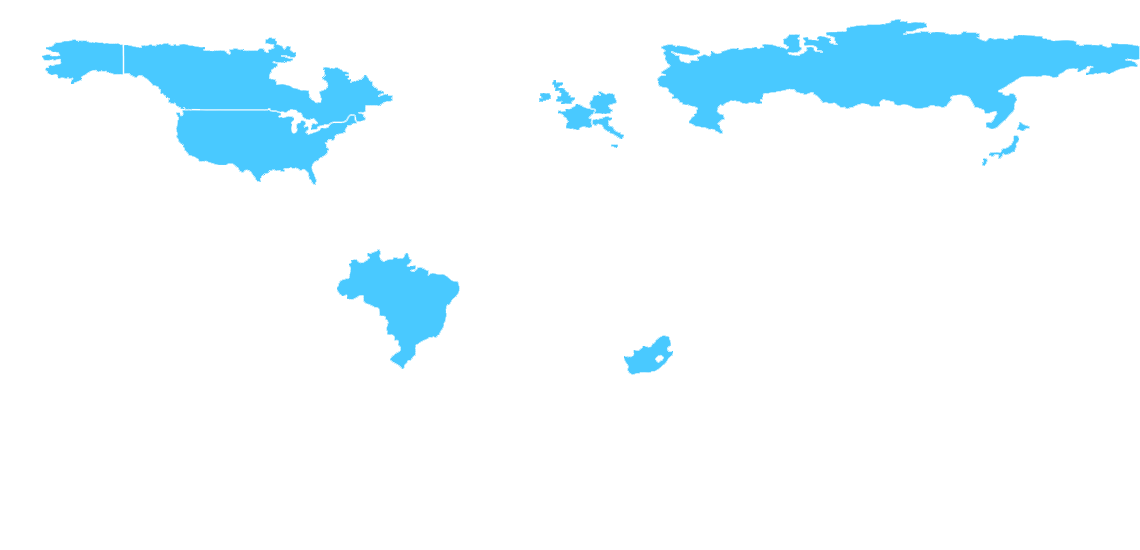
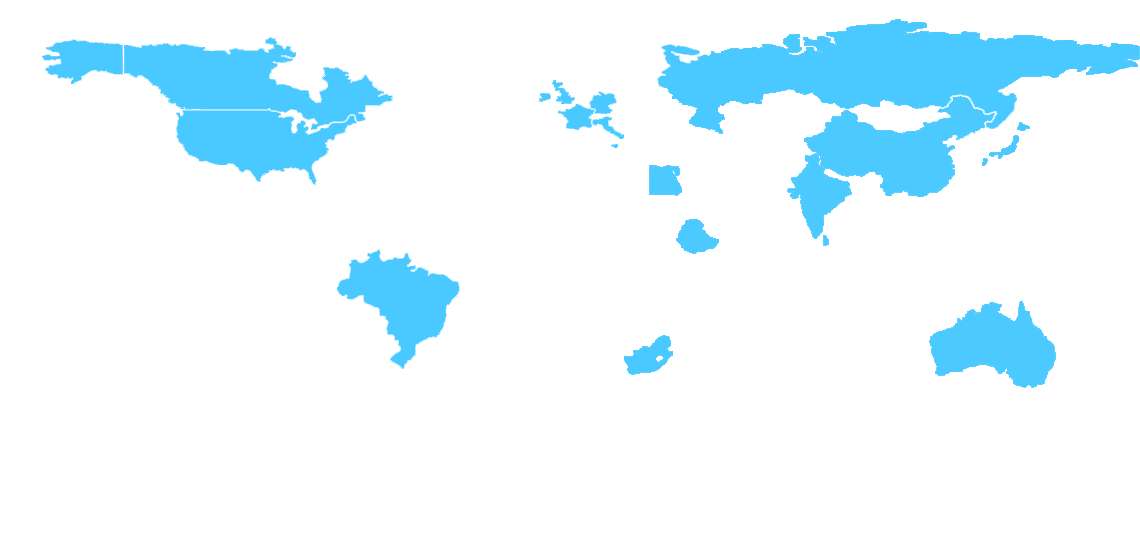
Add files via upload

diff --git a/project/game.js b/project/game.js
@@ -42,6 +42,16 @@ var astroList;
 var astronaut;
 var astronautChosen;
 //flags
+var australiaGreen
+var indiaGreen
+var chinaGreen
+var ethiopiaGreen
+var egyptGreen
+var australiaFlag
+var indiaFlag
+var chinaFlag
+var ethiopiaFlag
+var egyptFlag
 var americaFlag;
 var brazilFlag;
 var canadaFlag;
@@ -57,6 +67,15 @@ var flagChosen;
 var flag;
 var flagSprite;
 var country;
+var australiaBlock1;
+var indiaBlock1;
+var indiBlock2;
+var chinaBlock1;
+var chinaBlock2;
+var chinaBlock3;
+var chinaBlock4;
+var ethiopiaBlock1;
+var egyptBlock1;
 var russiaBlock1;
 var japanBlock1;
 var southAfricaBlock1;
@@ -70,6 +89,11 @@ var brazilBlock2;
 var italyBlock1;
 var germanyBlock1;
 //Highlighted versions for hovering over + tags
+var australiaHighlighted
+var indiaHighlighted
+var chinaHighlighted
+var ethiopiaHighlighted
+var egyptHighlighted
 var brazilHighlighted
 var canadaHighlighted
 var franceHighlighted
@@ -119,7 +143,6 @@ var incorrectSound
 var menuMusic
 var gameMusic
 var tutMusic
-masterVolume(0.5)
 var sfxPlayed = false
 var bgmusicPlayed = false
 var menuMusicPlayed = false
@@ -137,6 +160,11 @@ function preload() {
   worldMap = loadImage('assets/worldMap.jpg');
   speechBubble = loadImage('assets/speechBubble.png');
   rocket = loadImage('assets/rocket.png');
+  australiaFlag = loadImage('assets/flags/australiaFlag.png')
+  indiaFlag = loadImage('assets/flags/indiaFlag.png')
+  chinaFlag = loadImage('assets/flags/chinaFlag.png')
+  ethiopiaFlag = loadImage('assets/flags/ethiopiaFlag.png')
+  egyptFlag = loadImage('assets/flags/egyptFlag.png')
   americaFlag = loadImage('assets/flags/americaFlag.png');
   brazilFlag = loadImage('assets/flags/brazilFlag.png');
   canadaFlag = loadImage('assets/flags/canadaFlag.png');
@@ -146,6 +174,11 @@ function preload() {
   italyFlag = loadImage('assets/flags/italyFlag.png');
   japanFlag = loadImage('assets/flags/japanFlag.png');
   russiaFlag = loadImage('assets/flags/russiaFlag.png');
+  australiaHighlighted = loadImage('assets/countries/australia.png');
+  indiaHighlighted = loadImage('assets/countries/india.png');
+  chinaHighlighted = loadImage('assets/countries/china.png');
+  ethiopiaHighlighted = loadImage('assets/countries/ethiopia.png');
+  egyptHighlighted = loadImage('assets/countries/egypt.png');
   southAfricaFlag = loadImage('assets/flags/southAfricaFlag.png');
   americaHighlighted = loadImage('assets/countries/usa.png');
   brazilHighlighted = loadImage('assets/countries/brazil.png');
@@ -154,7 +187,7 @@ function preload() {
   germanyHighlighted = loadImage('assets/countries/germany.png');
   italyHighlighted = loadImage('assets/countries/italy.png');
   japanHighlighted = loadImage('assets/countries/japan.png');
-  russiaHighlighted = loadImage('assets/countries/russia.png')
+  russiaHighlighted = loadImage('assets/countries/russia.png');
   southAfricaHighlighted = loadImage('assets/countries/s._africa.png');
   britainHighlighted = loadImage('assets/countries/uk.png');
   greenMap = loadImage('assets/green.png');
@@ -166,18 +199,23 @@ function preload() {
   japanTag = loadImage('assets/JapanTag.PNG');
   southAfricaTag = loadImage('assets/SouthAfricaTag.PNG');
   britainTag = loadImage('assets/UnitedKingdomTag.PNG');
-  americaGreen = loadImage('assets/countries/green_usa.png')
-  brazilGreen = loadImage('assets/countries/green_brazil.png')
-  canadaGreen = loadImage('assets/countries/green_canada.png')
-  franceGreen = loadImage('assets/countries/green_france_.png')
-  germanyGreen = loadImage('assets/countries/green_germany.png')
-  italyGreen = loadImage('assets/countries/green_italy.png')
-  japanGreen = loadImage('assets/countries/green_japan.png')
-  russiaGreen = loadImage('assets/countries/green_russia.png')
-  southAfricaGreen = loadImage('assets/countries/green_south_africa.png')
-  britainGreen = loadImage('assets/countries/green_uk.png')
-  greyMap = loadImage('assets/grey.png')
-  tutorialScreen = loadImage('assets/tutorialScreen.PNG')
+  americaGreen = loadImage('assets/countries/green_usa.png');
+  brazilGreen = loadImage('assets/countries/green_brazil.png');
+  canadaGreen = loadImage('assets/countries/green_canada.png');
+  franceGreen = loadImage('assets/countries/green_france_.png');
+  germanyGreen = loadImage('assets/countries/green_germany.png');
+  italyGreen = loadImage('assets/countries/green_italy.png');
+  japanGreen = loadImage('assets/countries/green_japan.png');
+  russiaGreen = loadImage('assets/countries/green_russia.png');
+  southAfricaGreen = loadImage('assets/countries/green_south_africa.png');
+  britainGreen = loadImage('assets/countries/green_uk.png');
+  australiaGreen = loadImage('assets/countries/green_australia.png')
+  indiaGreen = loadImage('assets/countries/green_india.png')
+  chinaGreen = loadImage('assets/countries/green_china.png')
+  ethiopiaGreen = loadImage('assets/countries/green_ethiopia.png')
+  egyptGreen = loadImage('assets/countries/green_egypt.png')
+  greyMap = loadImage('assets/grey.png');
+  tutorialScreen = loadImage('assets/tutorialScreen.PNG');
   //images stop here
   correctSound = loadSound("assets/Music and Sounds/correctSound.mp3")
   incorrectSound = loadSound("assets/Music and Sounds/incorrectSound.wav")
@@ -243,6 +281,30 @@ function setup() {
   germanyBlock1 = createSprite(605,103,20,20);
   germanyBlock1.visible = false;
 
+  ethiopiaBlock1 = createSprite(700,240,40,40);
+  ethiopiaBlock1.visible = false;
+
+  egyptBlock1 = createSprite(665,180,32,32);
+  egyptBlock1.visible = false;
+
+  indiaBlock1 = createSprite(820,190,60,30);
+  indiaBlock2 = createSprite(815,200,22.5,80);
+  indiaBlock1.visible = false
+  indiaBlock2.visible =  false
+
+  australiaBlock1 = createSprite(995,350,121,95);
+  australiaBlock1.visible = false
+
+  chinaBlock1 = createSprite(855,145,50,55);
+  chinaBlock2 = createSprite(915,160,70,70);
+  chinaBlock3 = createSprite(965,120,35,35);
+  chinaBlock4 = createSprite(820,140,20,20);
+  chinaBlock1.visible = false
+  chinaBlock2.visible = false
+  chinaBlock3.visible = false
+  chinaBlock4.visible = false
+
+
 }
 
 function draw() {
@@ -262,7 +324,7 @@ function draw() {
     flagChosenBool = false;
     background(220);
     gamesCompleted = 0
-    score = 10
+    score = 15
     tempTime = 0
     timeTaken = 0
 
@@ -270,7 +332,7 @@ function draw() {
     text('Press "R" to enter tutorial',20,50);
     text('Please click on the game window to enable sound',20,80)
     
-    flagList = ["americaFlag", "brazilFlag", "canadaFlag", "englandFlag", "franceFlag", "germanyFlag", "italyFlag", "japanFlag", "russiaFlag", "southAfricaFlag"]
+    flagList = ["americaFlag", "brazilFlag", "canadaFlag", "englandFlag", "franceFlag", "germanyFlag", "italyFlag", "japanFlag", "russiaFlag", "southAfricaFlag","ethiopiaFlag","egyptFlag","indiaFlag","australiaFlag","chinaFlag"]
    
     flagDict = {
       americaFlag: {
@@ -322,7 +384,32 @@ function draw() {
         name: "South Africa",
         img: southAfricaFlag,
         highlight: southAfricaGreen
-      } 
+      },
+      ethiopiaFlag: {
+        name: "Ethiopia",
+        img: ethiopiaFlag,
+        highlight: ethiopiaGreen
+      },
+      egyptFlag: {
+        name: "Egypt",
+        img: egyptFlag,
+        highlight: egyptGreen
+      },
+      indiaFlag: {
+        name: "India",
+        img: indiaFlag,
+        highlight: indiaGreen
+      },
+      australiaFlag: {
+        name: "Australia",
+        img: australiaFlag,
+        highlight: australiaGreen
+      },
+      chinaFlag: {
+        name: "China",
+        img: chinaFlag,
+        highlight: chinaGreen
+      }
     }
    usedFlags = []
    //var object = {
@@ -350,7 +437,7 @@ function draw() {
         scoreAdded = true
       }
     
-    if (gamesCompleted <= 9){
+    if (gamesCompleted <= 14){
 
       if( bgmusicPlayed == false){
         gameMusic.loop()
@@ -393,12 +480,79 @@ function draw() {
    //world map image and resolution set 
    //var correctFlag = flagDict.flag;
    //picking which gender to draw
-   /*text('flag: '+correctFlag,500,400);
+   //text('flag: '+correctFlag,500,400);
    text('mouseY:'+mouseY+' mouseX: '+mouseX,500,425);
-   text('games completed: '+gamesCompleted,500,375)*/ 
-   //text('Gender numba: '+maleOrFemale,500,475);
+   //text('games completed: '+gamesCompleted,500,375) 
+   ///text('Gender numba: '+maleOrFemale,500,475);
    //text('Ethnicity numba: '+astroEthnicity,500,450);
+    drawSprite(chinaBlock1);
+    drawSprite(chinaBlock2);
+    drawSprite(chinaBlock3);
+    drawSprite(chinaBlock4);
+    let chinaGroup = new Group();
+    chinaGroup.add(chinaBlock1)
+    chinaGroup.add(chinaBlock2)
+    chinaGroup.add(chinaBlock3)
+    chinaGroup.add(chinaBlock4)
+    if(pointer.overlap(chinaGroup) && flagChosenBool == false){
+      image(chinaHighlighted,0,0);
+      if(mouseIsPressed && keyIsDown(32) == false){
+        print("china")
+        flagChosen = "China"
+        flagChosenBool = true
+        countryUserSelected = chinaHighlighted
+      }
+    }
 
+
+
+    drawSprite(australiaBlock1);
+    if(pointer.overlap(australiaBlock1) && flagChosenBool == false){
+      image(australiaHighlighted,0,0)
+      if(mouseIsPressed && keyIsDown(32) == false){
+        print("australia")
+        flagChosen = "Australia"
+        flagChosenBool = true
+        countryUserSelected = australiaHighlighted
+      }
+    }
+
+    drawSprite(indiaBlock1);
+    drawSprite(indiaBlock2);
+    let indiaGroup = new Group();
+    indiaGroup.add(indiaBlock1)
+    indiaGroup.add(indiaBlock2)
+    if(pointer.overlap(indiaGroup) && flagChosenBool == false){
+      image(indiaHighlighted,0,0)
+      if(mouseIsPressed && keyIsDown(32) == false){
+        print("india")
+        flagChosen = "India"
+        flagChosenBool = true
+        countryUserSelected = indiaHighlighted
+      }
+    }
+
+    drawSprite(egyptBlock1)
+    if(pointer.overlap(egyptBlock1) && flagChosenBool == false){
+      image(egyptHighlighted,0,0)
+      if(mouseIsPressed && keyIsDown(32) == false){
+        print("egypt")
+        flagChosen = "Egypt"
+        flagChosenBool = true
+        countryUserSelected = egyptHighlighted
+      }
+    }  
+
+    drawSprite(ethiopiaBlock1)
+    if(pointer.overlap(ethiopiaBlock1) && flagChosenBool == false){
+      image(ethiopiaHighlighted,0,0)
+      if(mouseIsPressed && keyIsDown(32) == false){
+        print("ethiopia")
+        flagChosen = "Ethiopia"
+        flagChosenBool = true
+        countryUserSelected = ethiopiaHighlighted
+      }
+    } 
 
     if(pointer.overlap(russiaBlock1) && flagChosenBool == false){
       image(russiaHighlighted,0,0);
@@ -590,7 +744,7 @@ function draw() {
   }
   else{
 
-    text("Game Over! You got "+score+"/10 flags right! in "+timeTaken+" seconds, you can be faster than that",300,300);
+    text("Game Over! You got "+score+"/15 flags right! in "+timeTaken+" seconds, you can be faster than that",300,300);
 
     text('Press "ESCAPE" to go back',20,20);
   }
